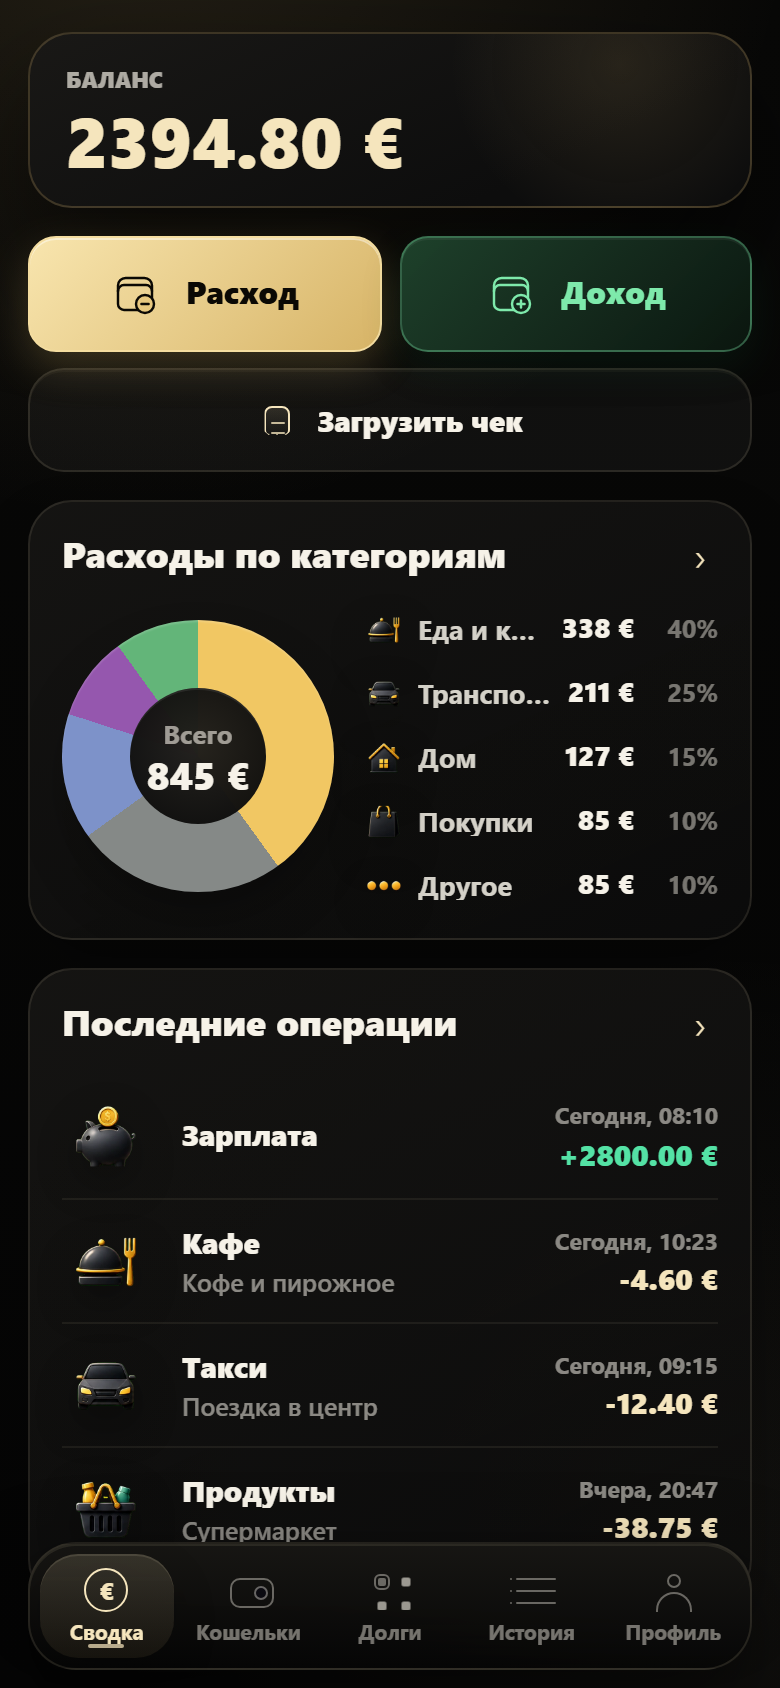
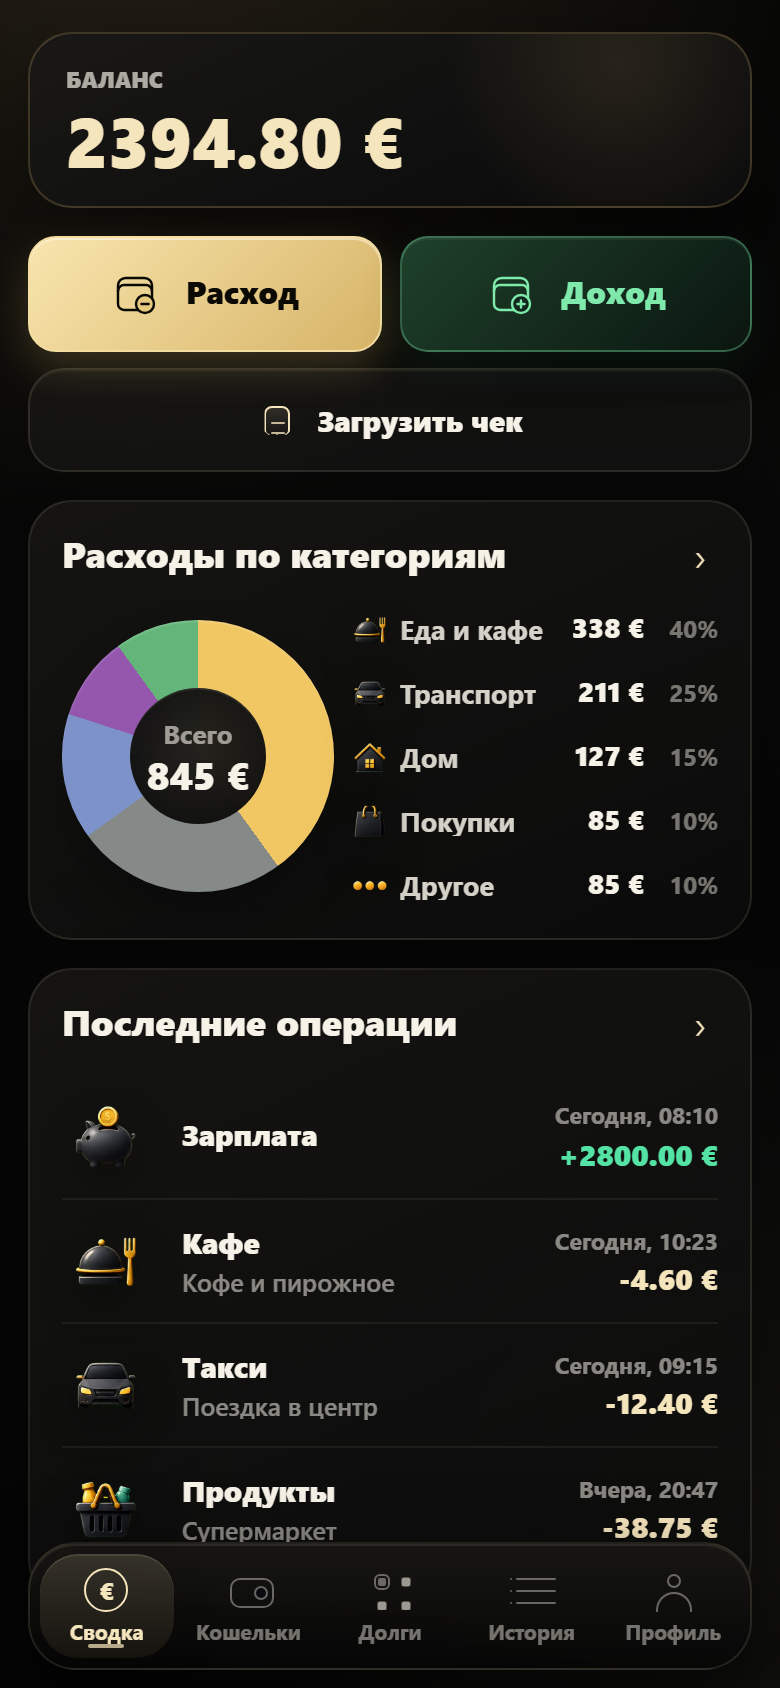
Update Mini App screenshot category labels

Changed region(s): [[0.4615, 0.3697, 0.8308, 0.5545], [0.4923, 0.5237, 0.6462, 0.5545], [0.8615, 0.3697, 0.8923, 0.4929]]

diff --git a/index.html b/index.html
@@ -14,11 +14,11 @@
       content="Пиши текстом или голосом: Numqora записывает траты, ведет совместные расходы и отвечает, как у тебя дела с финансами."
     >
     <meta property="og:type" content="website">
-    <meta property="og:image" content="assets/numqora-overview.png?v=mini-icons-2x">
+    <meta property="og:image" content="assets/numqora-overview.png?v=mini-categories-fit-1">
     <title>Numqora - AI-ассистент для личных и совместных расходов</title>
     <link rel="icon" type="image/jpeg" href="assets/numqora-logo.jpg">
     <link rel="preload" href="assets/numqora-logo.jpg" as="image">
-    <link rel="preload" href="assets/numqora-overview.png?v=mini-icons-2x" as="image">
+    <link rel="preload" href="assets/numqora-overview.png?v=mini-categories-fit-1" as="image">
     <link rel="stylesheet" href="styles.css?v=mini-screenshot-frame-1">
   </head>
   <body>
@@ -167,7 +167,7 @@
           <div class="phone-glass">
             <img
               class="miniapp-screenshot"
-              src="assets/numqora-overview.png?v=mini-icons-2x"
+              src="assets/numqora-overview.png?v=mini-categories-fit-1"
               width="780"
               height="1688"
               alt="Экран Numqora с балансом, расходами по категориям и последними тратами"